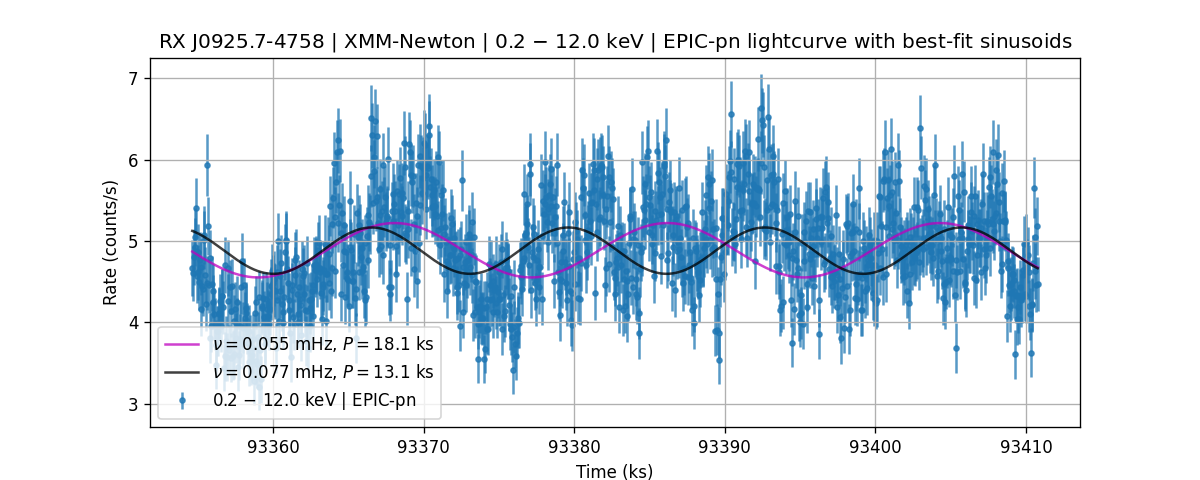
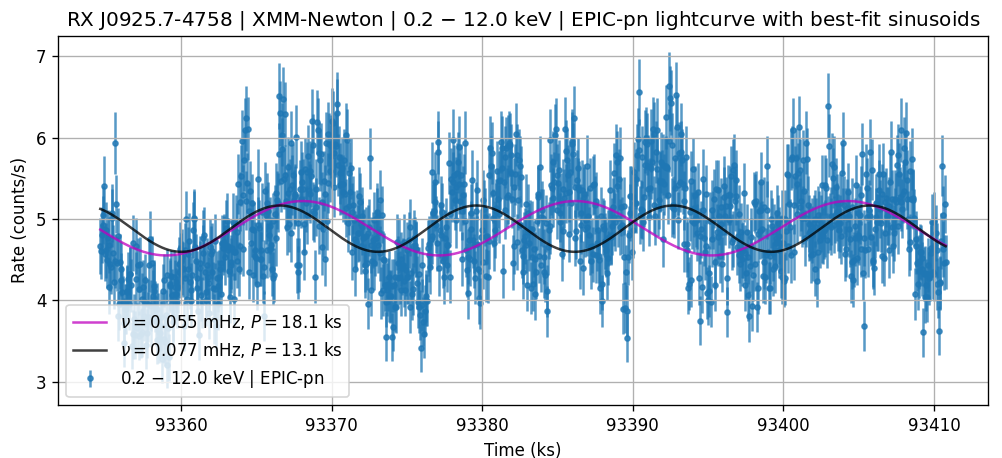
Modified chapter 6 to new format for timing analysis

diff --git a/chapters/06/results.tex b/chapters/06/results.tex
@@ -317,7 +317,7 @@
 		\subsection{Observed NICER and XMM-Newton lightcurves}
 			The lightcurves of the SSS \source\ as observed by the observatories NICER and XMM-Newton are presented here. For the NICER observations, the lightcurves are extracted by combining timing data from all three observations mentioned in table \ref{tab:obs-journal}, and for XMM-Newton observations, the lightcurves are extracted from the timing data in observation ID 0111150101. Figures \ref{result:lc-mrvel-nicer} and \ref{result:lc-mrvel-xmm} respectively display the lightcurves extracted from NICER and XMM-Newton data over 0.2--1.0 keV and 0.2--12.0 keV photon energy ranges (the former is the range analysed in the multi-observatory spectral analysis of \source\ described in chapter \ref{chap:multi-obs}, whereas the latter is the full range for SSS).
 			
-			As expected, the count rates for the lightcurve extracted over the full SSS photon energy range is higher than that for the 0.2--1.0 keV range. This can be seen in the insets in both figures \ref{result:lc-mrvel-nicer} and \ref{result:lc-mrvel-xmm} for a chosen sub-interval of observations. In figure \ref{result:lc-mrvel-xmm}, we can also see that the count rates of the RGS observations are much smaller than the corresponding EPIC-pn observations.
+			As expected, the count rates for the lightcurve extracted over the full SSS photon energy range is higher than that for the 0.2--1.0 keV range. This can be seen in the insets in both figures \ref{result:lc-mrvel-nicer} and \ref{result:lc-mrvel-xmm} for the chosen sub-intervals of observations. In figure \ref{result:lc-mrvel-xmm}, we can also see that the count rates of the RGS observations are much smaller than the corresponding EPIC-pn observations.
 			
 			\begin{figure}[h!]
 				\centering
@@ -326,13 +326,6 @@
 				\label{result:lc-mrvel-nicer}
 			\end{figure}
 			
-%			\begin{figure}[h!]
-%				\centering
-%				\includegraphics[width=\textwidth]{timing/rx-j0925_lc-bothbands_11-13ks}
-%				\caption{Variation in count rates of \source\ for both photon energy ranges observed in NICER lightcurves}
-%				\label{result:lc-mrvel-nicer-countdiff}
-%			\end{figure}
-			
 			\begin{figure}[h!]
 				\centering
 				\includegraphics[width=\textwidth]{timing/rx-j0925_0111150101_lc-allbands-inset}
@@ -340,66 +333,105 @@
 				\label{result:lc-mrvel-xmm}
 			\end{figure}
 			
-%			\begin{figure}[h!]
-%				\centering
-%				\includegraphics[width=\textwidth]{timing/rx-j0925_0111150101_lc-allbands_93360-70ks}
-%				\caption{Variation in count rates of \source\ for both photon energy ranges observed in XMM-Newton lightcurves}
-%				\label{result:lc-mrvel-xmm-countdiff}
-%			\end{figure}
-			
-		\subsection{Timing analysis of NICER lightcurve}
+		\subsection{Timing analysis of NICER lightcurves}
 		
-			We present here the results of the timing analysis by applying the Lomb-Scargle periodogram on the NICER and XMM-Newton lightcurves.
+			We present here the results of the timing analysis by applying the Lomb-Scargle periodogram on the NICER lightcurves.
 			
-			\subsubsection*{Lomb-Scargle periodogram over 0.2--1.0 keV}
-			\begin{figure}[h!]
-				\centering
-				\includegraphics[width=\textwidth]{timing/rx-j0925_ls-nicer-signalpeak}
-				\caption{Lomb-Scargle periodogram of NICER lightcurve over 0.2--1.0 keV}
-				\label{result:ls-mrvel-nicer}
-			\end{figure}
+			\subsubsection{Lomb-Scargle periodograms}
+				\begin{figure}[h!]
+					\centering
+					\includegraphics[width=\textwidth]{timing/rx-j0925_nicer-ls_bothbands-inset}
+					\caption{Lomb-Scargle periodogram of NICER lightcurves}
+					\label{result:ls-mrvel-nicer}
+				\end{figure}
 			
-			\begin{figure}[h!]
-				\centering
-				\includegraphics[width=\textwidth]{timing/rx-j0925_lc-nicer-phasefold-bestfit_58810s}
-				\caption{Phase-folded NICER lightcurve over 0.2--1.0 keV with $P=58.8$ ks}
-				\label{result:lc-phasefold-mrvel-nicer}
-			\end{figure}
+			\subsubsection{Best-fit sinusoids for 0.2--1.0 keV lightcurve}
+				\begin{figure}[h!]
+					\centering
+					\includegraphics[width=\textwidth]{timing/rx-j0925_nicer-lc_200-1000_phasefold-bestfit}
+					\caption{Phase-folded NICER lightcurve over 0.2--1.0 keV with best-fit sinusoids}
+					\label{result:lc-phase-fold-mrvel-nicer:200-1000-bestfit}
+				\end{figure}
+				
+				\begin{figure}[h!]
+					\centering
+					\includegraphics[width=\textwidth]{timing/rx-j0925_nicer-lc_200-1000_bestfit}
+					\caption{NICER lightcurve over 0.2--1.0 keV with best-fit sinusoids}
+					\label{result:lc-mrvel-nicer:200-1000-bestfit}
+				\end{figure}
+				
+			\subsubsection{Best-fit sinusoids for 0.2--12.0 keV lightcurve}
+				\begin{figure}[h!]
+					\centering
+					\includegraphics[width=\textwidth]{timing/rx-j0925_nicer-lc_200-12000_phasefold-bestfit}
+					\caption{Phase-folded NICER lightcurve over 0.2--12.0 keV with best-fit sinusoids}
+					\label{result:lc-phase-fold-mrvel-nicer:200-12000-bestfit}
+				\end{figure}
+				
+				\begin{figure}[h!]
+					\centering
+					\includegraphics[width=\textwidth]{timing/rx-j0925_nicer-lc_200-12000_bestfit}
+					\caption{NICER lightcurve over 0.2--12.0 keV with best-fit sinusoids}
+					\label{result:lc-mrvel-nicer:200-12000-bestfit}
+				\end{figure}
+				
+				
+		\subsection{Timing analysis of XMM-Newton lightcurves}
+		
+			We present here the results of the timing analysis by applying the Lomb-Scargle periodogram on the XMM-Newton lightcurves.
 			
-			\begin{figure}[h!]
-				\centering
-				\includegraphics[width=\textwidth]{timing/rx-j0925_lc-nicer-bestfit_58810s}
-				\caption{Best-fit sinusoid with $P=58.8$ ks for NICER lightcurve over 0.2--1.0 keV}
-				\label{result:lc-bestfit-mrvel-nicer}
-			\end{figure}
+			\subsubsection{Lomb-Scargle periodograms}
+				\begin{figure}[h!]
+					\centering
+					\includegraphics[width=\textwidth]{timing/rx-j0925_0111150101_xmm-ls_allbands-inset}
+					\caption{Lomb-Scargle periodogram of XMM-Newton lightcurves}
+					\label{result:ls-mrvel-xmm}
+				\end{figure}
 			
-%			\begin{figure}[h!]
-%				\centering
-%				\includegraphics[width=\textwidth]{timing/rx-j0925_lc-culled}
-%				\caption{NICER lightcurve of \source\ over 0.2--1.0 keV photon energies}
-%				\label{result:lc-mrvel-nicer}
-%			\end{figure}
-			
-%			\begin{figure}[h!]
-%				\centering
-%				\includegraphics[width=\textwidth]{timing/rx-j0925_full-SSS_lc-culled}
-%				\caption{NICER lightcurve of \source\ over 0.2--12.0 keV photon energies}
-%				\label{result:lc-fullSSS-mrvel-nicer}
-%			\end{figure}
-			
-%			\begin{figure}[h!]
-%				\centering
-%				\includegraphics[width=\textwidth]{timing/rx-j0925_EPN_0111150101_lc}
-%				\caption{XMM-Newton lightcurve of \source\ over 0.2--1.0 keV photon energies}
-%				\label{result:lc-mrvel-xmm}
-%			\end{figure}
-%			
-%			\begin{figure}[h!]
-%				\centering
-%				\includegraphics[width=\textwidth]{timing/rx-j0925_EPN_full-SSS_0111150101_lc}
-%				\caption{XMM-Newton lightcurve of \source\ over 0.2--12.0 keV photon energies}
-%				\label{result:lc-fullSSS-mrvel-xmm}
-%			\end{figure}
+			\subsubsection{Best-fit sinusoids for 0.2--1.0 keV EPIC-pn lightcurve}
+				\begin{figure}[h!]
+					\centering
+					\includegraphics[width=\textwidth]{timing/rx-j0925_0111150101_xmm-lc_200-1000_phasefold-bestfit}
+					\caption{Phase-folded XMM-Newton EPIC-pn lightcurve over 0.2--1.0 keV with best-fit sinusoids}
+					\label{result:lc-phase-fold-mrvel-xmm:200-1000-bestfit}
+				\end{figure}
+				
+				\begin{figure}[h!]
+					\centering
+					\includegraphics[width=\textwidth]{timing/rx-j0925_0111150101_xmm-lc_200-1000_bestfit}
+					\caption{XMM-Newton EPIC-pn lightcurve over 0.2--1.0 keV with best-fit sinusoids}
+					\label{result:lc-mrvel-xmm:200-1000-bestfit}
+				\end{figure}
+				
+			\subsubsection{Best-fit sinusoids for 0.2--12.0 keV EPIC-pn lightcurve}
+				\begin{figure}[h!]
+					\centering
+					\includegraphics[width=\textwidth]{timing/rx-j0925_0111150101_xmm-lc_200-12000_phasefold-bestfit}
+					\caption{Phase-folded XMM-Newton EPIC-pn lightcurve over 0.2--12.0 keV with best-fit sinusoids}
+					\label{result:lc-phase-fold-mrvel-xmm:200-12000-bestfit}
+				\end{figure}
+				
+				\begin{figure}[h!]
+					\centering
+					\includegraphics[width=\textwidth]{timing/rx-j0925_0111150101_xmm-lc_200-12000_bestfit}
+					\caption{XMM-Newton EPIC-pn lightcurve over 0.2--12.0 keV with best-fit sinusoids}
+					\label{result:lc-mrvel-xmm:200-12000-bestfit}
+				\end{figure}
+				
+			\subsubsection{Best-fit sinusoid for 0.2--12.0 keV RGS lightcurve}
+				\begin{figure}[h!]
+					\centering
+					\includegraphics[width=\textwidth]{timing/rx-j0925_0111150101_xmm-rgs-lc_200-12000_phasefold-bestfit}
+					\caption{Phase-folded XMM-Newton RGS lightcurve over 0.2--12.0 keV with best-fit sinusoid}
+					\label{result:lc-phase-fold-mrvel-xmm-rgs:200-12000-bestfit}
+				\end{figure}
+				
+				\begin{figure}[h!]
+					\centering
+					\includegraphics[width=\textwidth]{timing/rx-j0925_0111150101_xmm-rgs-lc_200-12000_bestfit}
+					\caption{XMM-Newton RGS lightcurve over 0.2--12.0 keV with best-fit sinusoid}
+					\label{result:lc-mrvel-xmm-rgs:200-12000-bestfit}
+				\end{figure}
 		
 	
 		\begin{landscape}
